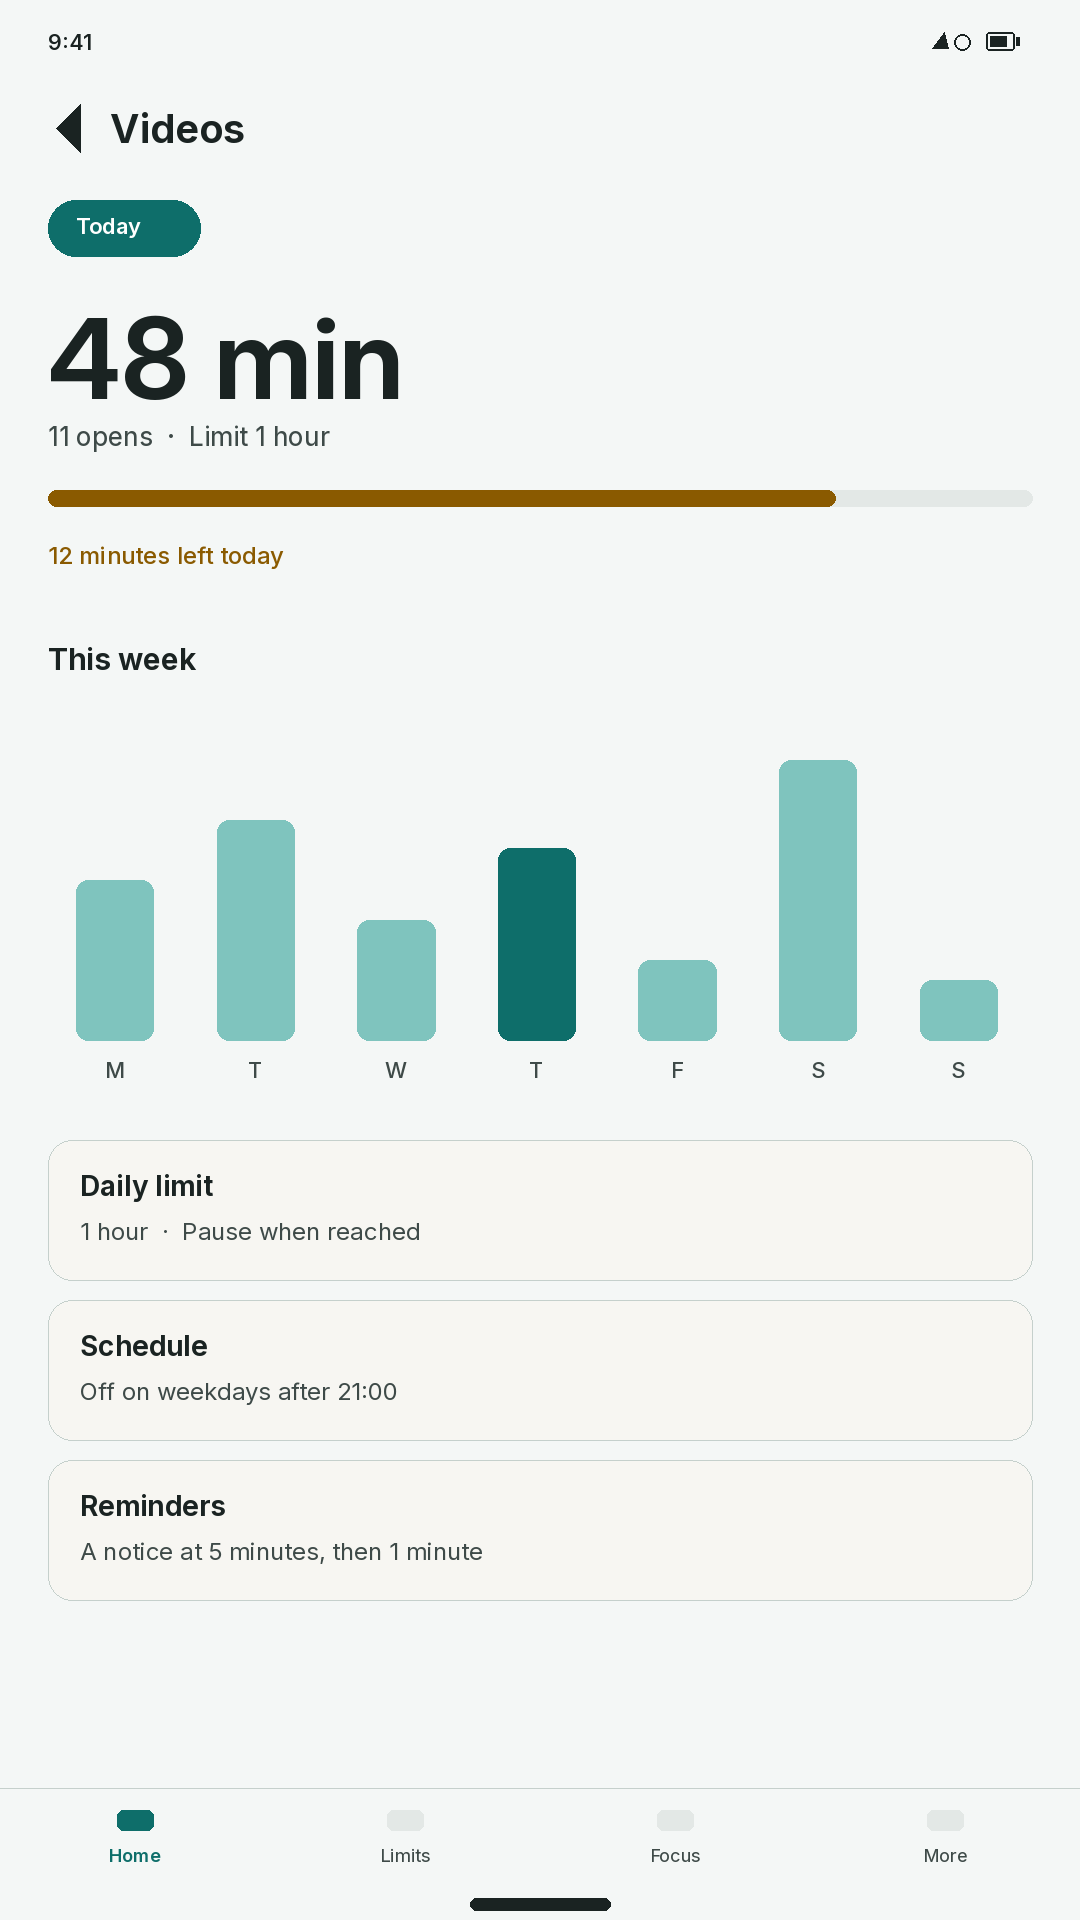
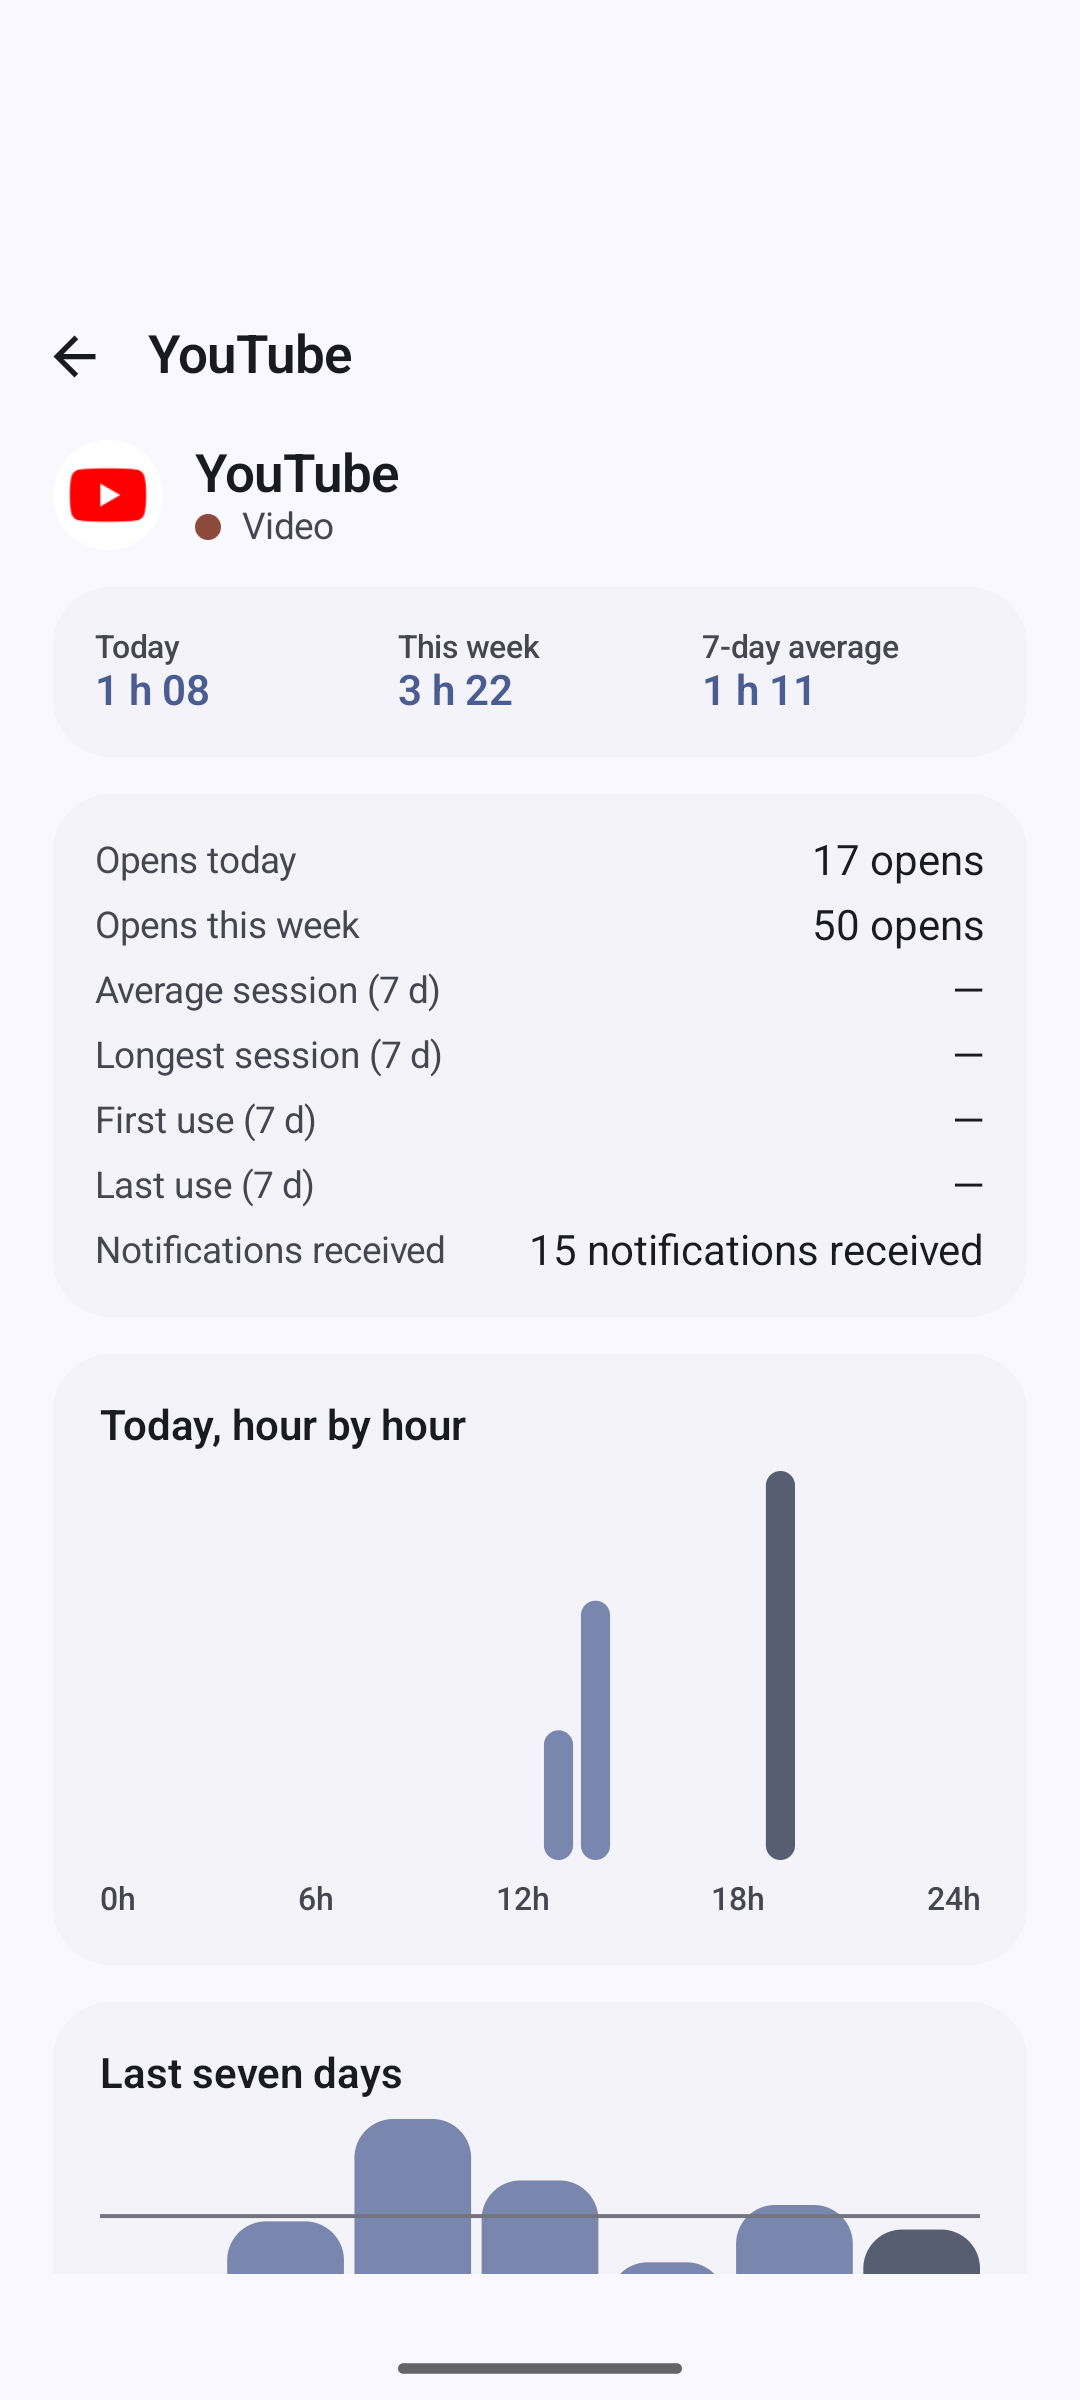
Replace Play phone screenshots with real 1.0.1 emulator captures.
Capture the English Android 1.0.1 UI on a headless emulator, using
fictional example data only. Add a debug-only hook so seeded Room
data is preferred when a marker file is present in the app sandbox.

diff --git a/android/app/src/main/java/app/unscroll/MainActivity.kt b/android/app/src/main/java/app/unscroll/MainActivity.kt
@@ -1,6 +1,7 @@
 package app.unscroll
 
 import android.content.Intent
+import android.content.pm.ApplicationInfo
 import android.net.Uri
 import android.os.Bundle
 import androidx.activity.ComponentActivity
@@ -37,6 +38,7 @@ import app.unscroll.prefs.AppPrefs
 import app.unscroll.sync.SyncRules
 import app.unscroll.prefs.EditLock
 import app.unscroll.service.GuardNotifications
+import app.unscroll.ui.block.BlockActivity
 import app.unscroll.ui.achieve.AchievementsScreen
 import app.unscroll.ui.categories.CategoriesScreen
 import app.unscroll.ui.categories.CategoryDetailScreen
@@ -75,6 +77,7 @@ class MainActivity : ComponentActivity() {
         pendingRoute = intent?.getStringExtra(GuardNotifications.EXTRA_ROUTE)
         pendingStartFocus = intent?.getBooleanExtra(GuardNotifications.EXTRA_START_FOCUS, false) == true
         pendingPairing = pairingUri(intent)
+        maybeOpenDebugBlock(intent)
         val start = if (AppPrefs(this).onboardingDone) Routes.DASHBOARD else Routes.ONBOARDING
         setContent {
             UnscrollTheme {
@@ -109,6 +112,7 @@ class MainActivity : ComponentActivity() {
             pendingStartFocus = true
         }
         pairingUri(intent)?.let { pendingPairing = it }
+        maybeOpenDebugBlock(intent)
     }
 
     private fun consumePairing() {
@@ -116,6 +120,20 @@ class MainActivity : ComponentActivity() {
         val current = intent ?: return
         current.data = null
         if (current.action == Intent.ACTION_VIEW) current.action = Intent.ACTION_MAIN
+    }
+
+    private fun maybeOpenDebugBlock(source: Intent?) {
+        if (applicationInfo.flags and ApplicationInfo.FLAG_DEBUGGABLE == 0) return
+        if (source?.getBooleanExtra("debug_block", false) != true) return
+        startActivity(
+            Intent(this, BlockActivity::class.java).apply {
+                putExtra(BlockActivity.EXTRA_REASON, source.getStringExtra("debug_block_reason") ?: "DAILY")
+                putExtra(BlockActivity.EXTRA_KIND, source.getStringExtra("debug_block_kind") ?: "APP")
+                putExtra(BlockActivity.EXTRA_SUBJECT, source.getStringExtra("debug_block_subject") ?: "Chrome")
+                putExtra(BlockActivity.EXTRA_TARGET, source.getStringExtra("debug_block_target") ?: "app:com.android.chrome")
+                putExtra(BlockActivity.EXTRA_ALLOW, true)
+            },
+        )
     }
 
     private fun pairingUri(source: Intent?): String? {
@@ -184,15 +202,20 @@ private fun AppNav(
     }
     LaunchedEffect(pendingRoute) {
         val route = pendingRoute ?: return@LaunchedEffect
-        if (prefs.onboardingDone && route in setOf(
-                Routes.FOCUS,
-                Routes.LIMITS,
-                Routes.SCHEDULES,
-                Routes.SLEEP,
-                Routes.WEBSITES,
-                Routes.REMINDERS,
-            )
-        ) {
+        val allowed = mutableSetOf(
+            Routes.FOCUS,
+            Routes.LIMITS,
+            Routes.SCHEDULES,
+            Routes.SLEEP,
+            Routes.WEBSITES,
+            Routes.REMINDERS,
+        )
+        val debuggable = context.applicationInfo.flags and ApplicationInfo.FLAG_DEBUGGABLE != 0
+        if (debuggable) {
+            allowed += setOf(Routes.SETTINGS, Routes.SYNC, Routes.HISTORY, Routes.REPORT)
+        }
+        val canOpen = route in allowed || (debuggable && route.startsWith("detail/"))
+        if (prefs.onboardingDone && canOpen) {
             nav.navigate(route) { launchSingleTop = true }
         }
         onRouteConsumed()

diff --git a/android/app/src/main/java/app/unscroll/data/repo/UsageRepository.kt b/android/app/src/main/java/app/unscroll/data/repo/UsageRepository.kt
@@ -1,6 +1,7 @@
 package app.unscroll.data.repo
 
 import android.content.Context
+import android.content.pm.ApplicationInfo
 import android.content.pm.PackageManager
 import android.database.sqlite.SQLiteException
 import androidx.room.withTransaction
@@ -23,6 +24,7 @@ import app.unscroll.data.stats.PkgSlice
 import app.unscroll.data.stats.UsageStatsEngine
 import app.unscroll.permissions.PermissionChecks
 import app.unscroll.prefs.AppPrefs
+import java.io.File
 import java.time.Instant
 import java.time.LocalDate
 import java.time.ZoneId
@@ -62,6 +64,7 @@ class UsageRepository(context: Context) {
             val liveDay = live[dayStart]
             val stored = storedTotals[dayStart]
             val slice = when {
+                preferStored() && stored != null -> stored.toSlice(date, storedUsage[dayStart].orEmpty())
                 hasAccess && !date.isBefore(recentFrom) && liveDay != null -> liveDay
                 stored != null -> stored.toSlice(date, storedUsage[dayStart].orEmpty())
                 liveDay != null -> liveDay
@@ -83,6 +86,7 @@ class UsageRepository(context: Context) {
 
     /** Photographie les jours encore couverts par le système, sans rétrécir l'historique. */
     suspend fun persistRecent(daysBack: Long = 9) {
+        if (preferStored()) return
         if (!PermissionChecks.hasUsageAccess(app)) return
         val zone = ZoneId.systemDefault()
         val today = LocalDate.now(zone)
@@ -344,6 +348,19 @@ class UsageRepository(context: Context) {
             sessions = emptyList(),
             eventCount = if (durationMillis > 0L || unlockCount > 0) 1 else 0,
         )
+    }
+
+    /**
+     * Debug-only: if files/unscroll-demo exists in the app sandbox, prefer Room data
+     * over live usage stats. Used to seed example screenshots. Never on in release.
+     */
+    private fun preferStored(): Boolean {
+        if (app.applicationInfo.flags and ApplicationInfo.FLAG_DEBUGGABLE == 0) return false
+        val candidates = listOfNotNull(
+            File(app.filesDir, "unscroll-demo"),
+            app.getExternalFilesDir(null)?.let { File(it, "unscroll-demo") },
+        )
+        return candidates.any { it.exists() }
     }
 
     private companion object {

diff --git a/android/store/README.md b/android/store/README.md
@@ -5,8 +5,8 @@ This folder is ready to paste into Google Play Console for `app.unscroll` versio
 - `listing-en.md` / `listing-fr.md` — title, short description, full description
 - `play-forms.md` — Data safety, content rating, ads, audience, and permission justifications
 - `play-checklist.md` — what to do in the console, including the 12-tester / 14-day closed-test rule for personal accounts
-- `graphics/` — 512×512 icon (from the app icon), 1024×500 feature graphic, and six 1080×1920 phone screenshots in English with fictional example data
+- `graphics/` — 512×512 icon (from the app icon), 1024×500 feature graphic, and six 1080×2400 phone screenshots captured from Android app 1.0.1 (`app.unscroll`) on a headless emulator (English UI, fictional example data only; raw captures, no device frames)
 
-The screenshots follow the app’s typography and colors. They were composed for the listing (no private usage data). A device smoke test of the signed APK was not run here: no emulator AVD was available on the build machine, and the developer’s phone was left untouched.
+The screenshots are raw 1080×2400 captures of the English 1.0.1 debug build on a headless Android 14 emulator, seeded with fictional example data only. The developer’s phone was not used. Icon and feature graphic are unchanged.
 
 The upload keystore is not in this folder and must not be committed.
